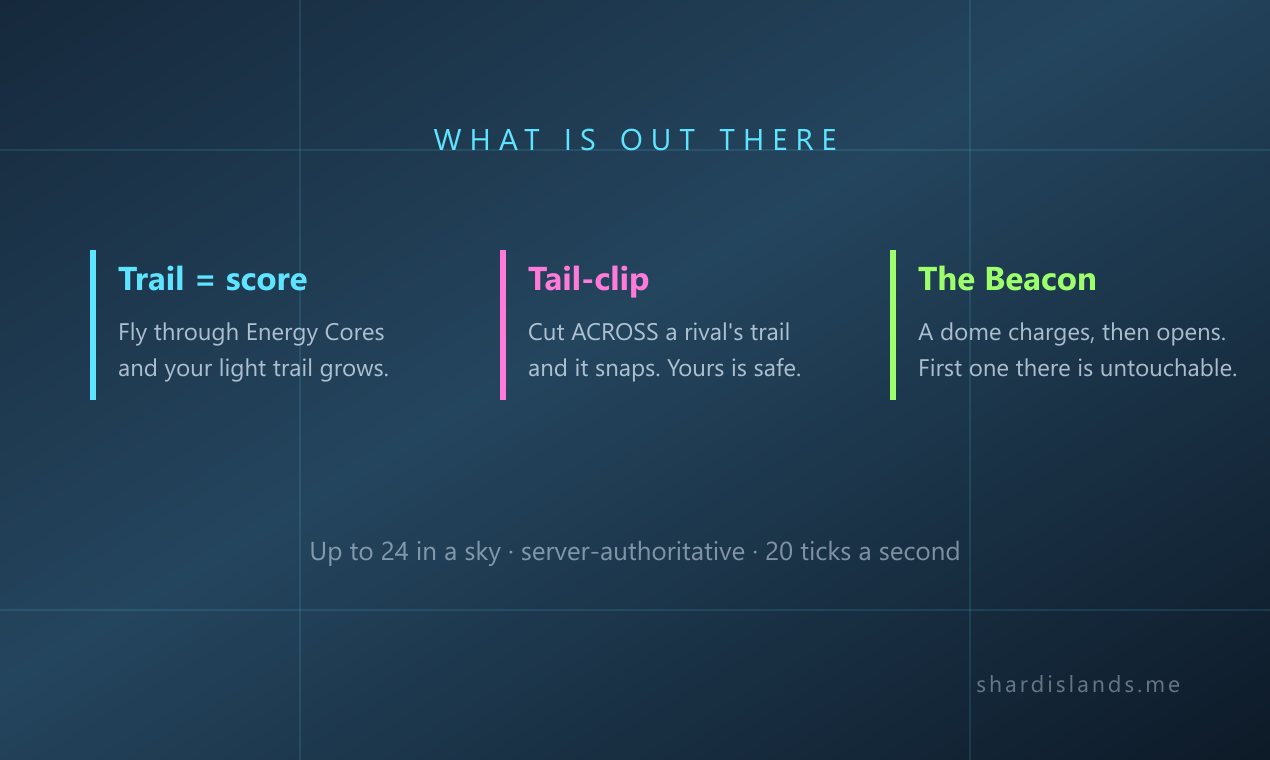
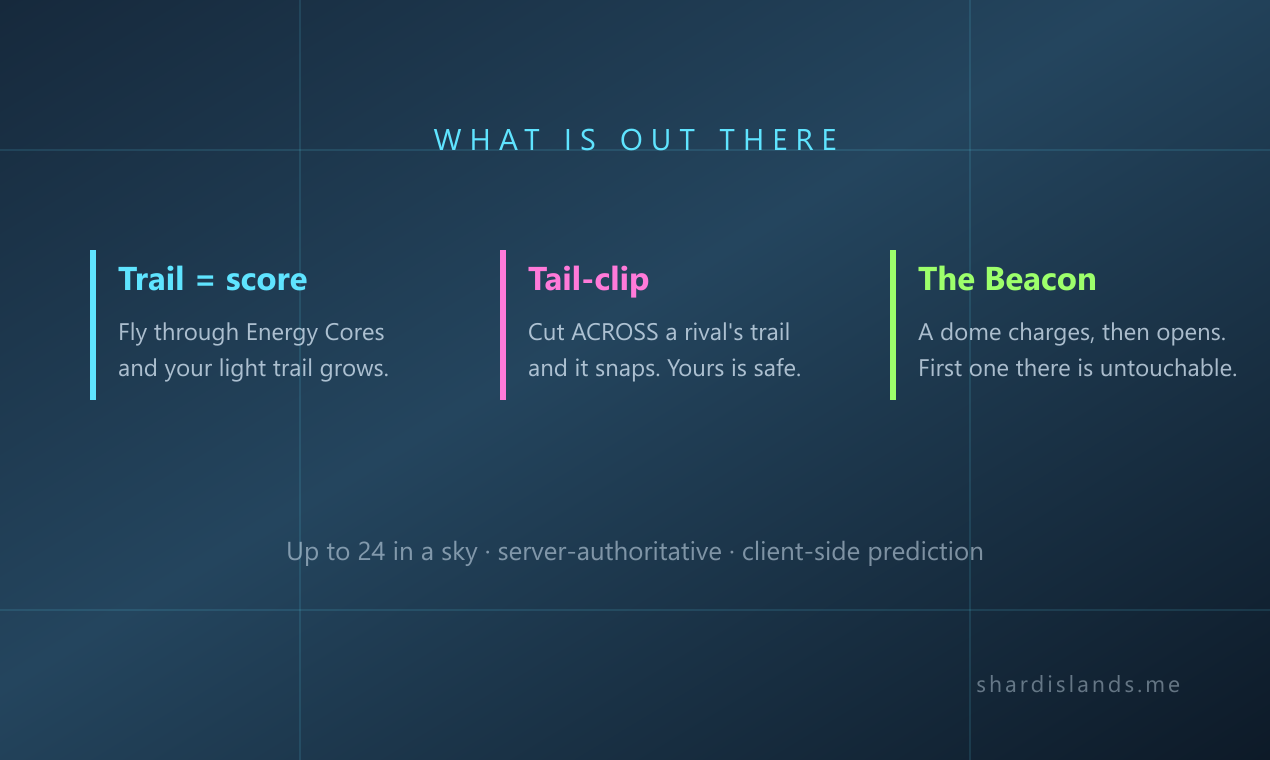
Say the number the testing actually produced
Three corrections to the launch copy, one of which predates the testing.

"Up to 24 others" was always wrong: maxPlayers is 24 TOTAL, so a room is
you plus twenty-three. Off by one in the description that goes on the
listing.

"20 ticks a second" is measured-true in one full room and false once the
machine is busy — 16.79 Hz at the 64 cap. Left in the maker's comment,
where the very next line now explains the cap and why it exists, so the
two together are honest. Taken off the gallery slide, where it sat as a
bare spec somebody could check and catch out; client-side prediction is
true at every load and is the better claim anyway.

And there is now a second reason to land in an empty sky. "Nobody is here,
dead game" is the likeliest comment a launch day produces, so the maker's
comment gets in first and says the server may simply be full.

Changed region(s): [[0.215, 0.6961, 0.7677, 0.7566]]

diff --git a/brand/PRODUCT-HUNT.md b/brand/PRODUCT-HUNT.md
@@ -35,7 +35,7 @@ Break the glass. Fly. Your light trail is your score.
 ## Description (260 max)
 
 ```
-A frosted glass floor, one glowing handprint, one word: DON'T. Press it and the floor shatters — you fall into a shared sky with up to 24 others. Fly through Energy Cores to grow your light trail. Longest trail wins. No sign-up, nothing to install.
+A frosted glass floor, one glowing handprint, one word: DON'T. Press it and the floor shatters — you fall into a shared sky of up to 24 craft. Fly through Energy Cores to grow your light trail. Longest trail wins. No sign-up, nothing to install.
 ```
 
 ## Topics
@@ -78,7 +78,9 @@ Longest trail wins. That's the whole game.
 
 **Under the hood:** Next.js + React Three Fiber on the front, a Colyseus server on Fly.io running authoritative physics at 20 ticks a second, with client-side prediction and reconciliation so it feels instant even from the other side of the planet. Both halves run the identical physics code out of a shared package, which is the only reason the prediction lines up.
 
-If the sky is empty when you arrive, give it a minute — or drag a friend in, it is a much better game with someone to cut up.
+It is also capped at 64 people flying at once. I load-tested it properly and the tick rate falls off a cliff past about seventy — so rather than let a busy day turn into a laggy mess for everybody, the ceiling sits below where I measured it sagging.
+
+So if you land in an empty sky, it is either a quiet moment or the server politely telling you it is full — either way, give it a few minutes and come back, or drag a friend in. It is a much better game with someone to cut up.
 
 It is free and it always will be. Tell me what breaks 🙏
 ```
